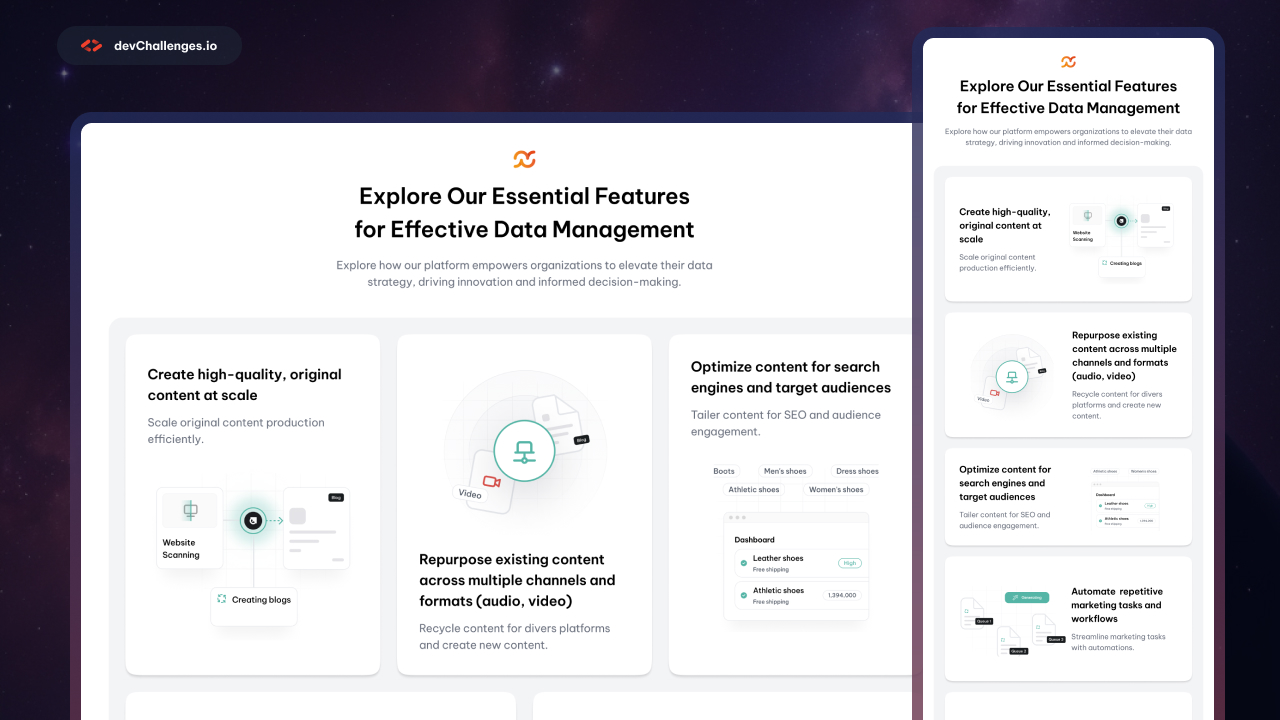
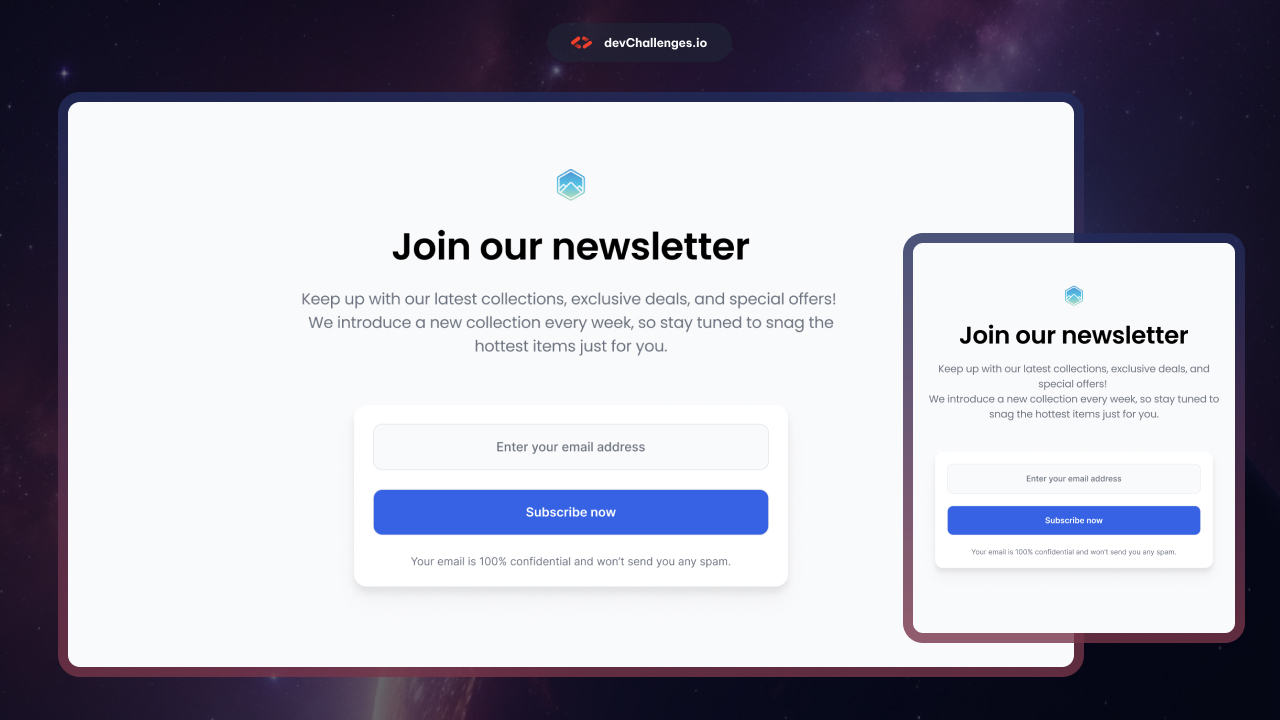
Change: join our newsletter page

diff --git a/index.html b/index.html
@@ -4,92 +4,31 @@
 <head>
   <meta charset="UTF-8" />
   <meta name="viewport" content="width=device-width, initial-scale=1.0" />
-  <meta name="description" content="bento box feature challenge">
+  <meta name="description" content="Join our Newsletter page">
+  <link rel="icon" href="resources/favicon.ico" type="image/x-icon" sizes="96x96" />
+  <link rel="stylesheet" href="./styles.css">
   <link rel="preconnect" href="https://fonts.googleapis.com">
   <link rel="preconnect" href="https://fonts.gstatic.com" crossorigin>
   <link
-    href="https://fonts.googleapis.com/css2?family=Be+Vietnam+Pro:ital,wght@0,100;0,200;0,300;0,400;0,500;0,600;0,700;0,800;0,900;1,100;1,200;1,300;1,400;1,500;1,600;1,700;1,800;1,900&display=swap"
+    href="https://fonts.googleapis.com/css2?family=Poppins:ital,wght@0,100;0,200;0,300;0,400;0,500;0,600;0,700;0,800;0,900;1,100;1,200;1,300;1,400;1,500;1,600;1,700;1,800;1,900&family=Sora:wght@100..800&display=swap"
     rel="stylesheet">
-  <link rel="stylesheet" href="main.css">
-
-  <link rel="icon" href="resources/favicon.ico" type="image/x-icon" sizes="96x96" />
-
-  <title>Bentobox Feature Section | devChallenges.io</title>
+  <title>Join Our Newsletter | devChallenges.io</title>
 </head>
 
 <body>
   <main>
-    <header>
-      <img class="logo" alt="our logo" src="./resources/Logo.svg">
-      <h1>Explore Our Essential Features for Effective Data Management</h1>
-      <p class="header-description">Explore how our platform empowers organizations to elevate their data strategy,
-        driving innovation and informed decision-making.</p>
-    </header>
-
-    <section class="card-container">
-
-      <div class="card text-first card-one">
-        <div class="card-text-container">
-          <p class="card-title">Create high-quality, original content at scale</p>
-          <p class="card-description">Scale original content production efficiently.</p>
-        </div>
-        <div class="card-image-container">
-          <img class="card-image" alt="cool website icons" src="./resources/image_1@2x-1.png"
-            srcset="./resources/image_1@2x.png 304w, ./resources/image_1@2x-1.png 456w"
-            sizes="(max-width: 280px) 100vw, 280px">
-        </div>
-      </div>
-
-      <div class="card card-two">
-        <div class="card-text-container">
-          <p class="card-title">Repurpose existing content across multiple channels and formats (audio, video)</p>
-          <p class="card-description">Recycle content for divers platforms and create new content.</p>
-        </div>
-        <div class="card-image-container">
-          <img class="card-image" alt="cool website icons" src="./resources/image_2@2x-1.png"
-            srcset="./resources/image_2@2x.png 304w, ./resources/image_2@2x-1.png 456w"
-            sizes="(max-width: 280px) 100vw, 280px">
-        </div>
-      </div>
-
-      <div class="card text-first card-three">
-        <div class="card-text-container">
-          <p class="card-title">Optimize content for search engines and target audiences</p>
-          <p class="card-description">Tailer content for SEO and audience engagement.</p>
-        </div>
-        <div class="card-image-container">
-          <img class="card-image" alt="cool website icons" src="./resources/image_3@2x-1.png"
-            srcset="./resources/image_3@2x.png 304w, ./resources/image_3@2x-1.png 456w"
-            sizes="(max-width: 280px) 100vw, 280px">
-        </div>
-      </div>
-
-      <div class="card card-four">
-        <div class="card-text-container">
-          <p class="card-title">Automate repetitive marketing tasks and workflows</p>
-          <p class="card-description">Streamline marketing tasks with automations.</p>
-        </div>
-        <div class="card-image-container">
-          <img class="card-image" alt="cool website icons" src="./resources/image_4@2x-1.png"
-            srcset="./resources/image_4@2x.png 304w, ./resources/image_4@2x-1.png 456w"
-            sizes="(max-width: 280px) 100vw, 280px">
-        </div>
-      </div>
-
-      <div class="card text-first card-five">
-        <div class="card-text-container">
-          <p class="card-title">Integrate with your favorite marketing tools and platform</p>
-          <p class="card-description">Seamlessly integrate with preferred marketing tools.</p>
-        </div>
-        <div class="card-image-container">
-          <img class="card-image" alt="cool website icons" src="./resources/image_5@2x-1.png"
-            srcset="./resources/image_5@2x.png 304w, ./resources/image_5@2x-1.png 456w"
-            sizes="(max-width: 280px) 100vw, 280px">
-        </div>
-      </div>
-
+    <section class="section-container">
+      <img class="logo" src="./resources/logo.svg" alt="Our Logo, a mountain bounded in a pentagon">
+      <h1>Join our newsletter</h1>
+      <p class="desc-text">Keep up with our latest collections, exclusive deals, and special offers! We introduce a new
+        collection every
+        week, so stay tuned to snag the hottest items just for you.</p>
+      <form class="form">
+        <input type="email" name="email" id="name" placeholder="Enter your email address">
+        <button class="submit-button" type="submit">Subscribe now</button>
+        <p class="subtext">Your email is 100% confidential and won't send you any spam.</p>
+      </form>
     </section>
   </main>
 </body>
-
 </html>

diff --git a/styles.css b/styles.css
@@ -1,0 +1,99 @@
+* {
+    margin: 0;
+    padding: 0;
+    box-sizing: border-box;
+}
+
+:root {
+    font-size: 15px;
+}
+
+body {
+    font-family: "Poppins", sans-serif;
+    height: 100vh;
+    background-color: #F9FAFB;
+}
+
+main {
+    margin: 0 auto;
+    height: 100%;
+    display: flex;
+    flex-direction: column;
+    justify-content: center;
+    align-items: center;
+    text-align: center;
+}
+
+.section-container {
+    width: clamp(200px, 85%, 700px);
+    display: grid;
+    align-items: center;
+    justify-items: center;
+}
+
+.logo {
+    margin: 0 auto;
+}
+
+h1 {
+    margin: 1rem 0;
+    font-size: 2rem;
+    font-weight: 600;
+}
+
+.desc-text {
+    color: #6C727F;
+    font-size: 1.25rem;
+    font-weight: 400;
+}
+
+.form {
+    max-width: 600px;
+    display: grid;
+    align-items: center;
+    justify-items: stretch;
+    margin-top: 2.5rem;
+    padding: 1.5rem;
+    gap: 0.5rem;
+    border-radius: 0.75rem;
+    box-shadow: 0px 20px 30px 0px rgba(0, 0, 0, 0.03), 0px 8px 12px 0px rgba(0, 0, 0, 0.08);
+}
+
+input[type="email"] {
+    padding: 0.875rem 0.416rem;
+    border-radius: 0.75rem;
+    border: 1px solid#E5E7EB;
+    box-shadow: none;
+    color: #6C727F;
+    font-weight: 600;
+    text-align: center;
+}
+
+.submit-button {
+    padding: 0.875rem 0;
+    border: none;
+    border-radius: 0.75rem;
+    background-color: #284BCE;
+    color: #FFF;
+    font-weight: 600;
+}
+
+.subtext {
+    font-size: 0.875rem;
+    font-weight: 400;
+    color: #6C727F;
+    margin-top: 20px;
+}
+
+
+@media screen and (min-width: 600px) {
+    :root
+    {
+        font-size: 16px;
+    }
+
+    h1 {
+        font-size: 3rem;
+    }
+    
+}
